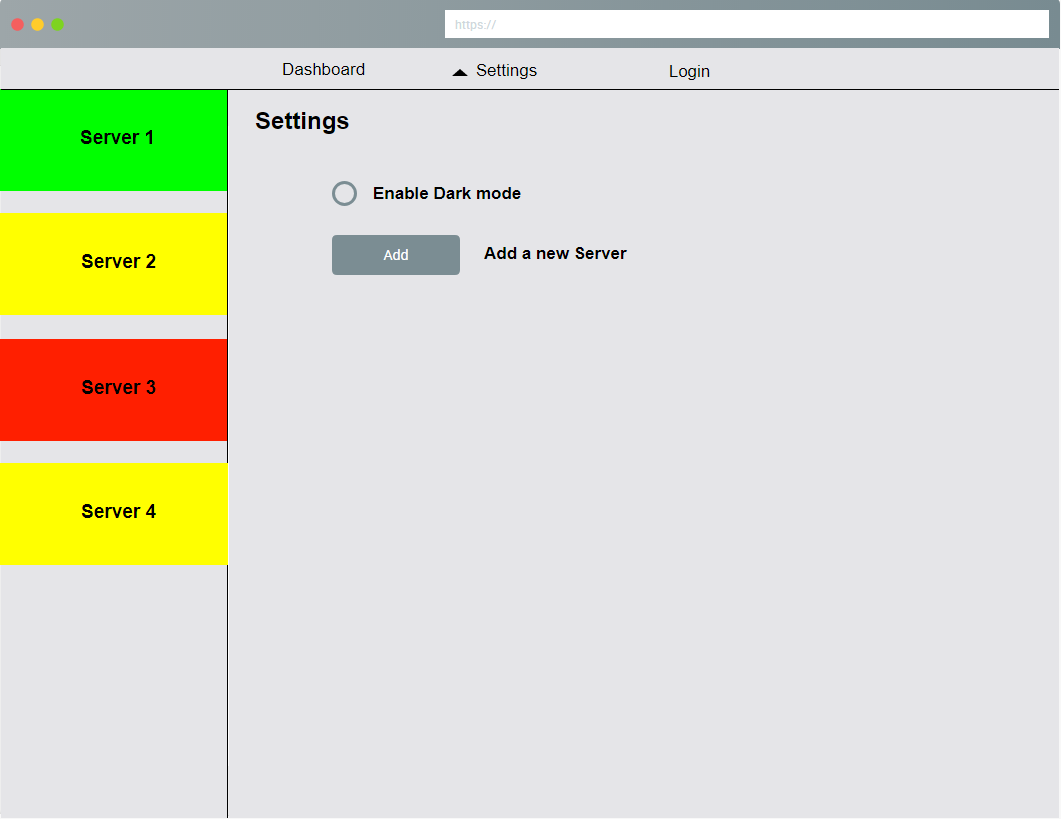
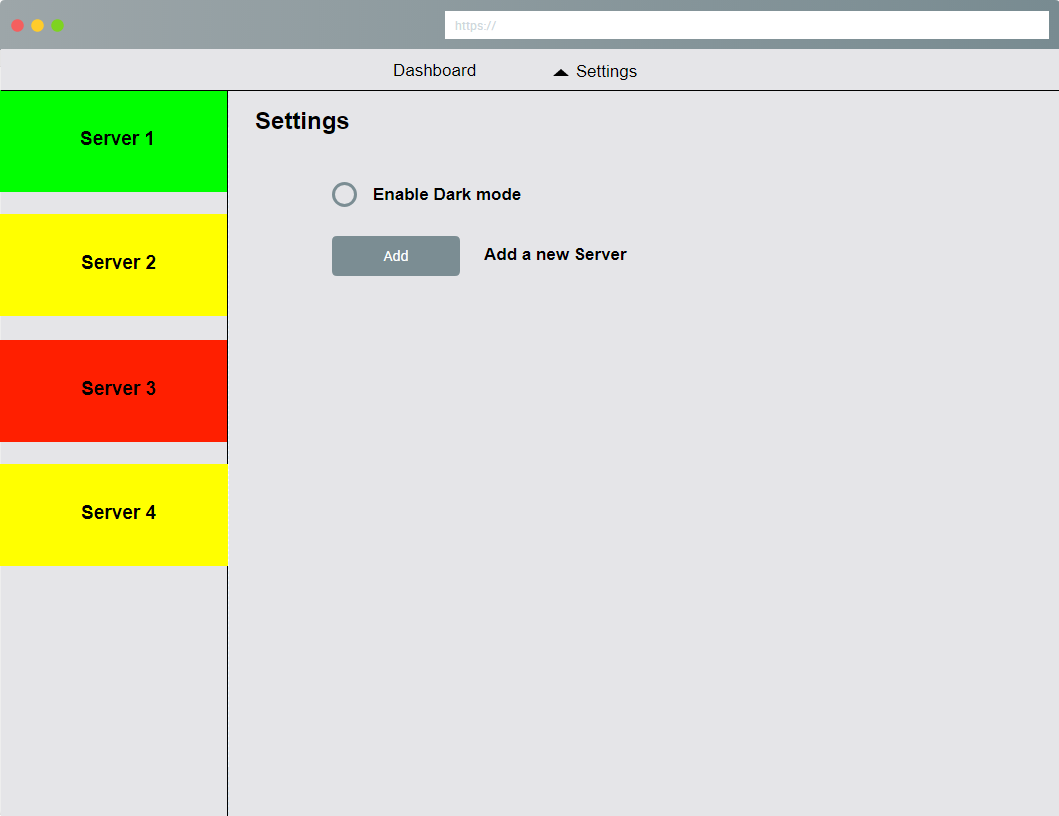
Änderung an den Mockups

diff --git a/Pflichtenheft/Pflichtenheft.md b/Pflichtenheft/Pflichtenheft.md
@@ -176,9 +176,6 @@ Das IMT ist kein Ressourcenmonitor für einen Client. Es wird vorausgesetzt, das
 
 * Settings
 ![Settings](Mockup/Settings.PNG "Settings")
-
-* Login
-![Login](Mockup/Login.PNG "Login")
    
 ## 2.4 Anforderungen im Detail
 
